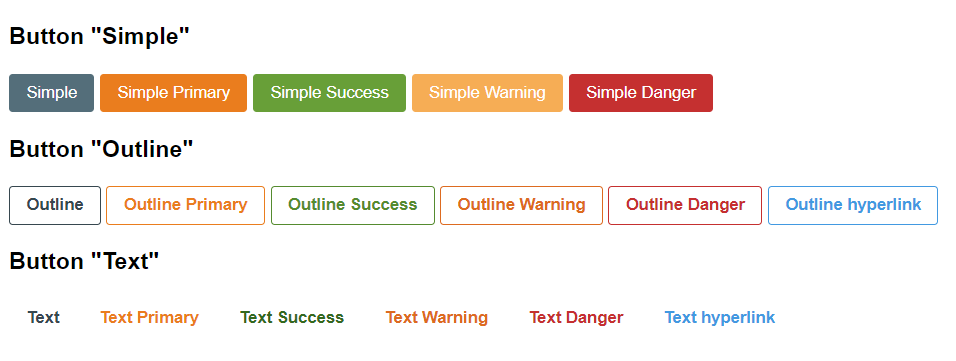
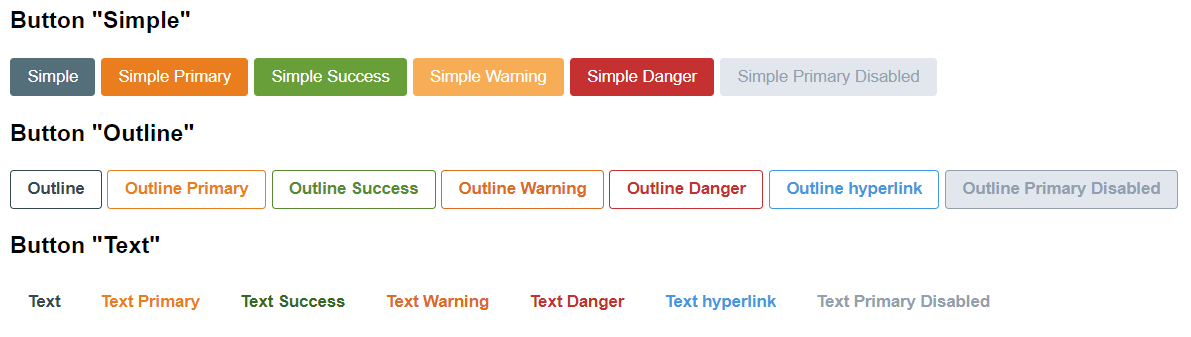
:sparkles: Add "disabled" button style

diff --git a/dist/molkobain-handy-framework/asset/css/handy-framework.css b/dist/molkobain-handy-framework/asset/css/handy-framework.css
@@ -42,6 +42,10 @@
  *
  * Use of this extension is bound by the license you purchased. A license grants you a non-exclusive and non-transferable right to use and incorporate the item in your personal or commercial projects. There are several licenses available (see https://www.molkobain.com/usage-licenses/ for more informations)
  */
+/**************************************************************************/
+/* Colors come from the great TailWind website                            */
+/* https://tailwindcss.com/docs/customizing-colors/#default-color-palette */
+/**************************************************************************/
 /* White */
 /* Grey */
 /* Red */
@@ -162,6 +166,9 @@
 .mhf-button.mhf-button-text {
   font-weight: bold;
 }
+.mhf-button.mhf-button-disabled {
+  cursor: not-allowed;
+}
 .mhf-button.mhf-button-simple {
   /* Default style is put in the base button type selector... */
   color: white;
@@ -170,9 +177,11 @@
 }
 .mhf-button.mhf-button-simple:hover {
   background-color: #37474f;
+  border-color: #37474f;
 }
 .mhf-button.mhf-button-simple:active {
   background-color: #37474f;
+  border-color: #37474f;
 }
 .mhf-button.mhf-button-simple.mhf-button-primary {
   /* .. only specific styles have a dedicated class selector */
@@ -182,9 +191,11 @@
 }
 .mhf-button.mhf-button-simple.mhf-button-primary:hover {
   background-color: #da7014;
+  border-color: #da7014;
 }
 .mhf-button.mhf-button-simple.mhf-button-primary:active {
   background-color: #cc6913;
+  border-color: #cc6913;
 }
 .mhf-button.mhf-button-simple.mhf-button-success {
   /* .. only specific styles have a dedicated class selector */
@@ -194,9 +205,11 @@
 }
 .mhf-button.mhf-button-simple.mhf-button-success:hover {
   background-color: #558b2f;
+  border-color: #558b2f;
 }
 .mhf-button.mhf-button-simple.mhf-button-success:active {
   background-color: #558b2f;
+  border-color: #558b2f;
 }
 .mhf-button.mhf-button-simple.mhf-button-warning {
   /* .. only specific styles have a dedicated class selector */
@@ -206,9 +219,11 @@
 }
 .mhf-button.mhf-button-simple.mhf-button-warning:hover {
   background-color: #dd6b20;
+  border-color: #dd6b20;
 }
 .mhf-button.mhf-button-simple.mhf-button-warning:active {
   background-color: #dd6b20;
+  border-color: #dd6b20;
 }
 .mhf-button.mhf-button-simple.mhf-button-danger {
   /* .. only specific styles have a dedicated class selector */
@@ -218,9 +233,25 @@
 }
 .mhf-button.mhf-button-simple.mhf-button-danger:hover {
   background-color: #9b2c2c;
+  border-color: #9b2c2c;
 }
 .mhf-button.mhf-button-simple.mhf-button-danger:active {
   background-color: #9b2c2c;
+  border-color: #9b2c2c;
+}
+.mhf-button.mhf-button-simple.mhf-button-disabled {
+  /* .. only specific styles have a dedicated class selector */
+  color: #929fb1;
+  background-color: #e1e7ec;
+  border-color: #e1e7ec;
+}
+.mhf-button.mhf-button-simple.mhf-button-disabled:active {
+  background-color: #e1e7ec;
+  border-color: #e1e7ec;
+}
+.mhf-button.mhf-button-simple.mhf-button-disabled:hover {
+  background-color: #e1e7ec;
+  border-color: #e1e7ec;
 }
 .mhf-button.mhf-button-outline {
   /* Default style is put in the base button type selector... */
@@ -258,6 +289,18 @@
   /* .. only specific styles have a dedicated class selector */
   color: #4299e1;
   border-color: #4299e1;
+}
+.mhf-button.mhf-button-outline.mhf-button-disabled {
+  /* .. only specific styles have a dedicated class selector */
+  color: #929fb1;
+  border-color: #929fb1;
+  background-color: #e1e7ec;
+}
+.mhf-button.mhf-button-outline.mhf-button-disabled:hover {
+  background-color: #e1e7ec;
+}
+.mhf-button.mhf-button-outline.mhf-button-disabled:active {
+  background-color: #e1e7ec;
 }
 .mhf-button.mhf-button-text {
   /* Default style is put in the base button type selector... */
@@ -332,6 +375,20 @@
 }
 .mhf-button.mhf-button-text.mhf-button-hyperlink:active {
   color: #2c5282;
+}
+.mhf-button.mhf-button-text.mhf-button-disabled {
+  /* .. only specific styles have a dedicated class selector */
+  color: #929fb1;
+}
+.mhf-button.mhf-button-text.mhf-button-disabled:hover {
+  color: #929fb1;
+  background-color: rgba(255, 255, 255, 0);
+  border-color: rgba(255, 255, 255, 0);
+}
+.mhf-button.mhf-button-text.mhf-button-disabled:active {
+  color: #929fb1;
+  background-color: rgba(255, 255, 255, 0);
+  border-color: rgba(255, 255, 255, 0);
 }
 /*!
  * Copyright (c) 2015 - 2020 Molkobain.

diff --git a/dist/molkobain-handy-framework/asset/css/40-components/_button.scss b/dist/molkobain-handy-framework/asset/css/40-components/_button.scss
@@ -21,9 +21,11 @@ $button-themes: (
 			border-color: $color-blue-grey-600,
 			hover: (
 				background-color: $color-blue-grey-800,
+				border-color: $color-blue-grey-800,
 			),
 			active: (
 				background-color: $color-blue-grey-800,
+				border-color: $color-blue-grey-800,
 			)
 		),
 		primary: (
@@ -32,9 +34,11 @@ $button-themes: (
 			border-color: $brand-primary,
 			hover: (
 				background-color: darken($brand-primary, 5%),
+				border-color: darken($brand-primary, 5%),
 			),
 			active: (
 				background-color: darken($brand-primary, 8%),
+				border-color: darken($brand-primary, 8%),
 			)
 		),
 		success: (
@@ -43,9 +47,11 @@ $button-themes: (
 			border-color: $color-green-700,
 			hover: (
 				background-color: $color-green-800,
+				border-color: $color-green-800,
 			),
 			active: (
 				background-color: $color-green-800,
+				border-color: $color-green-800,
 			)
 		),
 		warning: (
@@ -54,9 +60,11 @@ $button-themes: (
 			border-color: $color-orange-400,
 			hover: (
 				background-color: $color-orange-600,
+				border-color: $color-orange-600,
 			),
 			active: (
 				background-color: $color-orange-600,
+				border-color: $color-orange-600,
 			)
 		),
 		danger: (
@@ -65,10 +73,25 @@ $button-themes: (
 			border-color: $color-red-700,
 			hover: (
 				background-color: $color-red-800,
+				border-color: $color-red-800,
 			),
 			active: (
 				background-color: $color-red-800,
+				border-color: $color-red-800,
 			)
+		),
+		disabled: (
+			color: $color-grey-600,
+			background-color: $color-grey-200,
+			border-color: $color-grey-200,
+			active: (
+				background-color: $color-grey-200,
+				border-color: $color-grey-200,
+			),
+			hover: (
+				background-color: $color-grey-200,
+				border-color: $color-grey-200,
+			),
 		),
 	),
 	outline: (
@@ -102,6 +125,17 @@ $button-themes: (
 		hyperlink: (
 			color: $color-blue-500,
 			border-color: $color-blue-500,
+		),
+		disabled: (
+			color: $color-grey-600,
+			border-color: $color-grey-600,
+			background-color: $color-grey-200,
+			hover: (
+				background-color: $color-grey-200,
+			),
+			active: (
+				background-color: $color-grey-200,
+			)
 		),
 	),
 	text: (
@@ -172,7 +206,20 @@ $button-themes: (
 			active: (
 				color: $color-blue-800,
 			),
-		)
+		),
+		disabled: (
+			color: $color-grey-600,
+			hover: (
+				color: $color-grey-600,
+				background-color: $color-transparent,
+				border-color: $color-transparent,
+			),
+			active: (
+				color: $color-grey-600,
+				background-color: $color-transparent,
+				border-color: $color-transparent,
+			),
+		),
 	)
 );
 
@@ -199,6 +246,9 @@ $button-themes: (
 	}
 	&.mhf-button-text {
 		font-weight: bold;
+	}
+	&.mhf-button-disabled{
+		cursor: not-allowed;
 	}
 
 	@each $type, $styles in $button-themes {

diff --git a/dist/molkobain-handy-framework/test/UI/button.html b/dist/molkobain-handy-framework/test/UI/button.html
@@ -15,24 +15,27 @@
 </head>
 <body>
 	<h3>Button "Simple"</h3>
-	<button class="mhf-button mhf-button-simple mhf-button-default">Simple</button>
+	<button class="mhf-button mhf-button-simple">Simple</button>
 	<button class="mhf-button mhf-button-simple mhf-button-primary">Simple Primary</button>
 	<button class="mhf-button mhf-button-simple mhf-button-success">Simple Success</button>
 	<button class="mhf-button mhf-button-simple mhf-button-warning">Simple Warning</button>
 	<button class="mhf-button mhf-button-simple mhf-button-danger">Simple Danger</button>
+	<button class="mhf-button mhf-button-simple mhf-button-primary mhf-button-disabled">Simple Primary Disabled</button>
 	<h3>Button "Outline"</h3>
-	<button class="mhf-button mhf-button-outline mhf-button-default">Outline</button>
+	<button class="mhf-button mhf-button-outline">Outline</button>
 	<button class="mhf-button mhf-button-outline mhf-button-primary">Outline Primary</button>
 	<button class="mhf-button mhf-button-outline mhf-button-success">Outline Success</button>
 	<button class="mhf-button mhf-button-outline mhf-button-warning">Outline Warning</button>
 	<button class="mhf-button mhf-button-outline mhf-button-danger">Outline Danger</button>
 	<button class="mhf-button mhf-button-outline mhf-button-hyperlink">Outline hyperlink</button>
+	<button class="mhf-button mhf-button-outline mhf-button-primary mhf-button-disabled">Outline Primary Disabled</button>
 	<h3>Button "Text"</h3>
-	<button class="mhf-button mhf-button-text mhf-button-default">Text</button>
+	<button class="mhf-button mhf-button-text">Text</button>
 	<button class="mhf-button mhf-button-text mhf-button-primary">Text Primary</button>
 	<button class="mhf-button mhf-button-text mhf-button-success">Text Success</button>
 	<button class="mhf-button mhf-button-text mhf-button-warning">Text Warning</button>
 	<button class="mhf-button mhf-button-text mhf-button-danger">Text Danger</button>
 	<button class="mhf-button mhf-button-text mhf-button-hyperlink">Text hyperlink</button>
+	<button class="mhf-button mhf-button-text mhf-button-primary mhf-button-disabled">Text Primary Disabled</button>
 </body>
 </html>

diff --git a/dist/molkobain-handy-framework/module.molkobain-handy-framework.php b/dist/molkobain-handy-framework/module.molkobain-handy-framework.php
@@ -14,7 +14,7 @@
 /** @noinspection PhpUnhandledExceptionInspection */
 SetupWebPage::AddModule(
 	__FILE__, // Path to the current file, all other file names are relative to the directory containing this file
-	'molkobain-handy-framework/1.5.1',
+	'molkobain-handy-framework/1.6.0',
 	array(
 		// Identification
 		//
